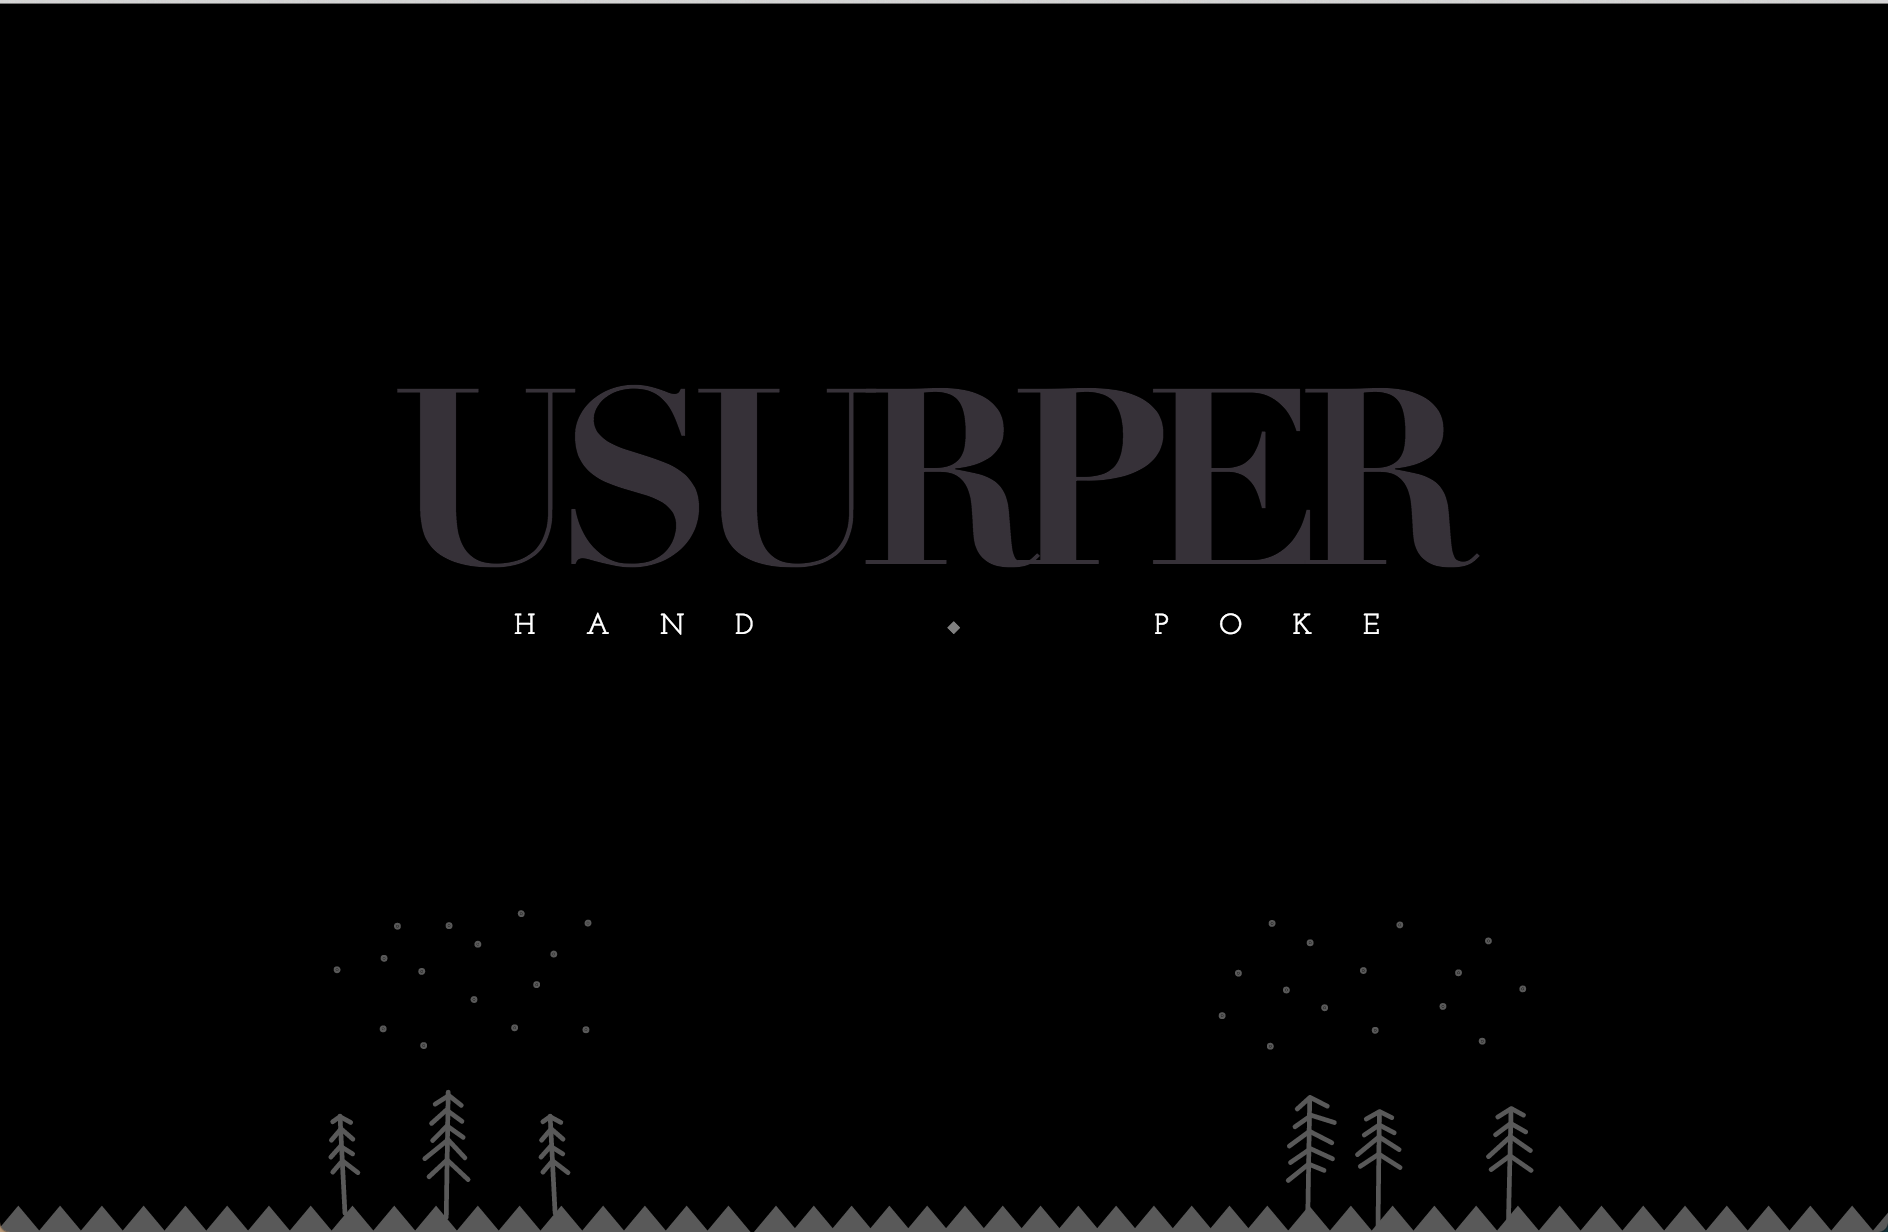
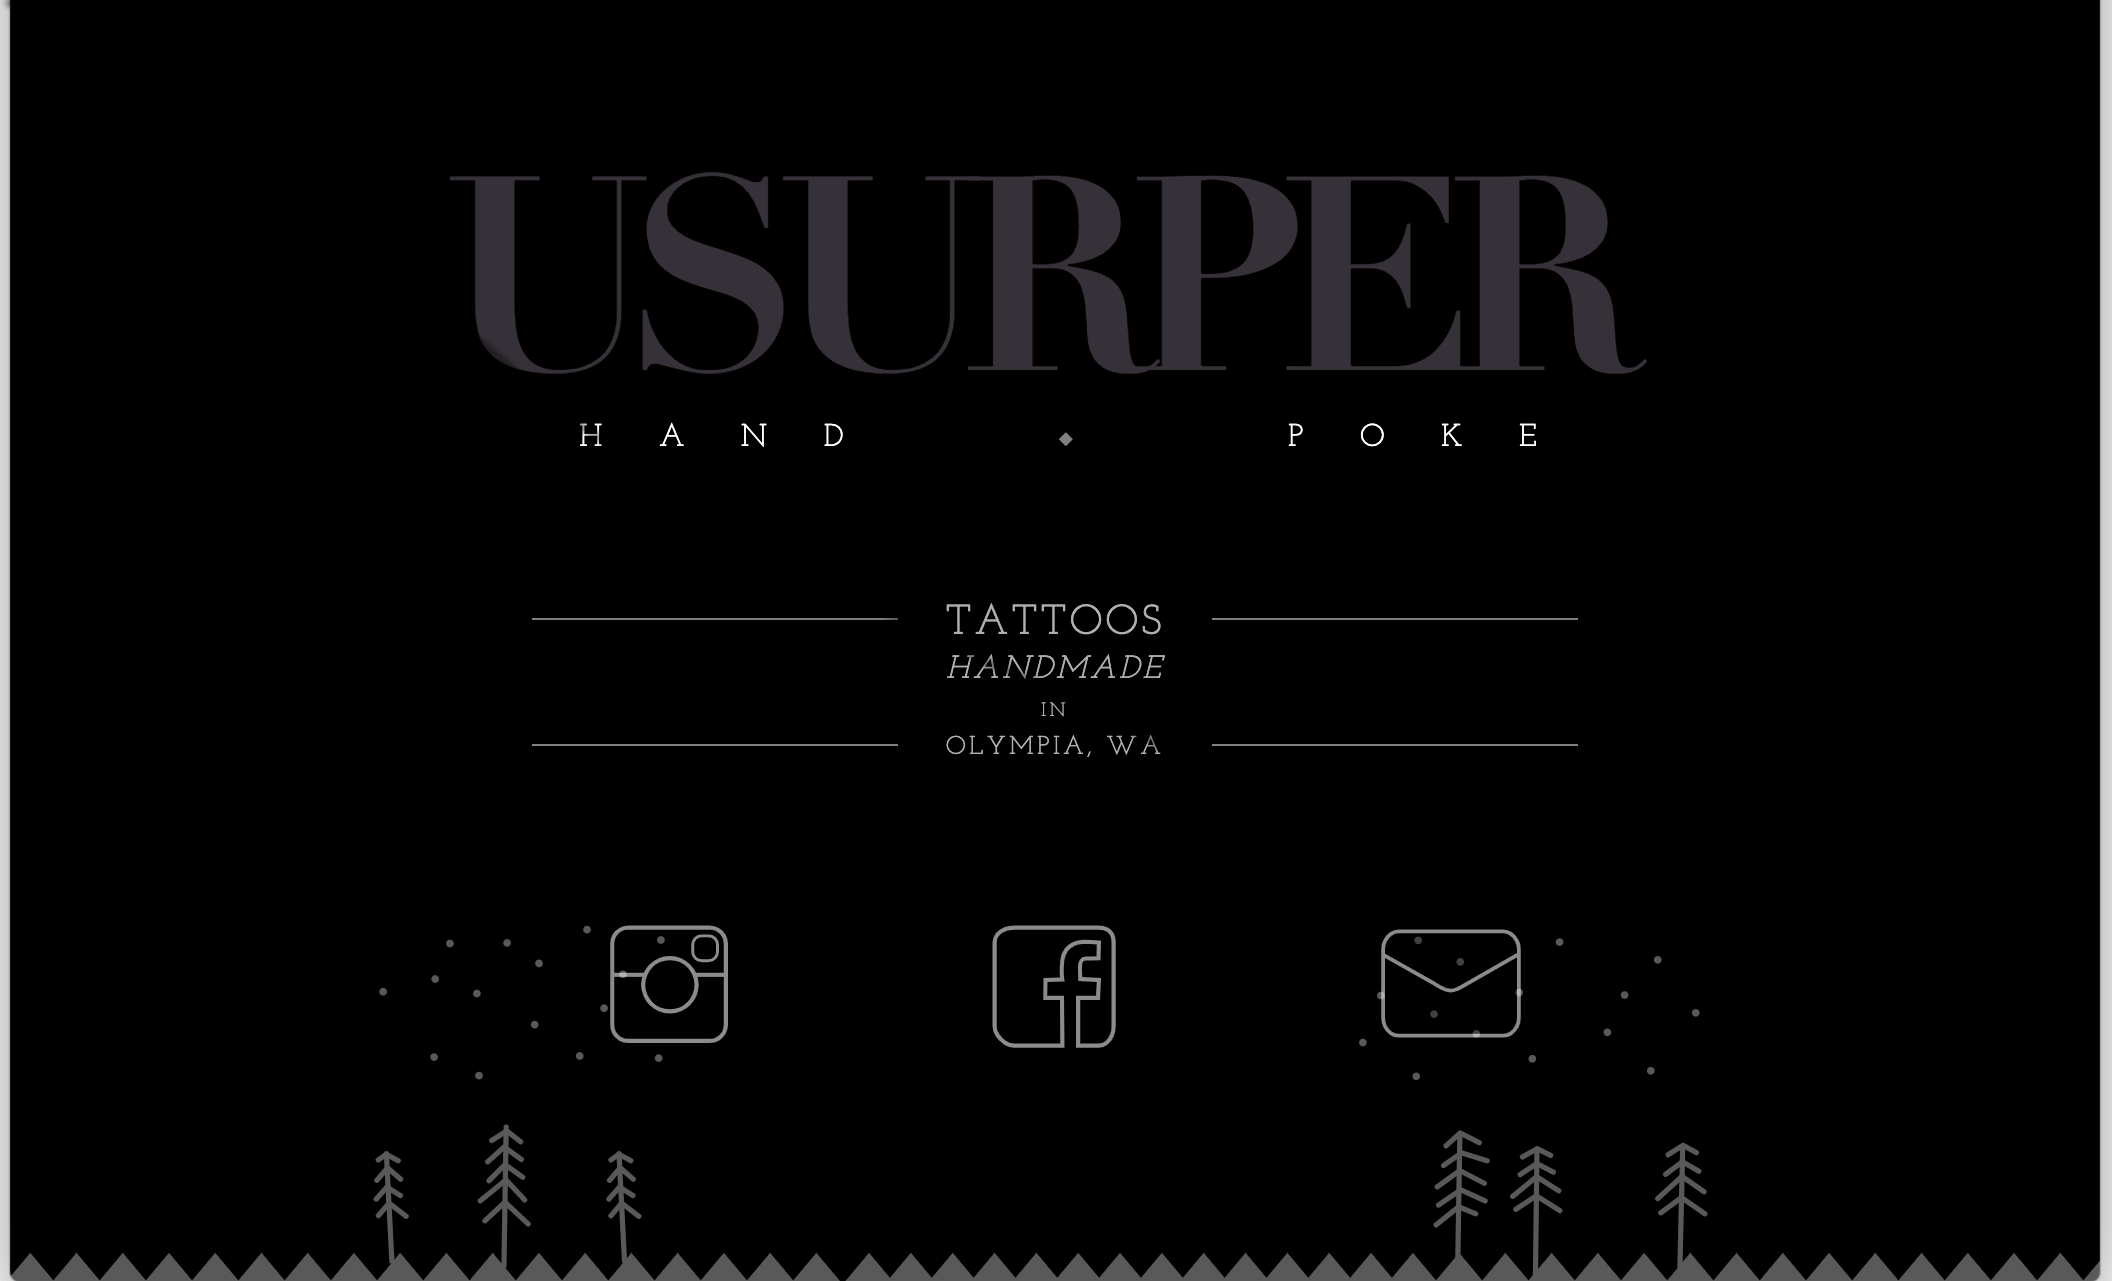
working on websites

diff --git a/build.js b/build.js
@@ -5,7 +5,10 @@ var srcPaths = [ 'websites', 'detritus', 'software' ]
 
 srcPaths.forEach(function (path) {
     var obj = {
-        '#content': fs.createReadStream(__dirname + '/src/' + path + '.html')
+        '#content': fs.createReadStream(__dirname + '/src/' + path + '.html'),
+        'body': {
+            class: { append: path }
+        }
     }
 
     obj['.site-nav a[href="/' + path + '"]'] = {

diff --git a/public/software/index.html b/public/software/index.html
@@ -7,7 +7,7 @@
         <meta charset="UTF-8">
         <title>nichoth</title>
     </head>
-    <body>
+    <body class="software">
         <div class="site-nav">
             <a href="/websites">🖥</a>
             <a href="/software" class="active">🔢</a>

diff --git a/public/detritus/index.html b/public/detritus/index.html
@@ -7,7 +7,7 @@
         <meta charset="UTF-8">
         <title>nichoth</title>
     </head>
-    <body>
+    <body class="detritus">
         <div class="site-nav">
             <a href="/websites">🖥</a>
             <a href="/software">🔢</a>

diff --git a/src/websites.html b/src/websites.html
@@ -1,3 +1,6 @@
-<h1>the websites</h1>
-
-<p>websites paragraph</p>
+<div>
+    <img src="/img/usurper.png" alt="website">
+    <p>
+        <a href="http://usurperhandpoke.com/">Get a tattoo</a>
+    </p>
+</div>
